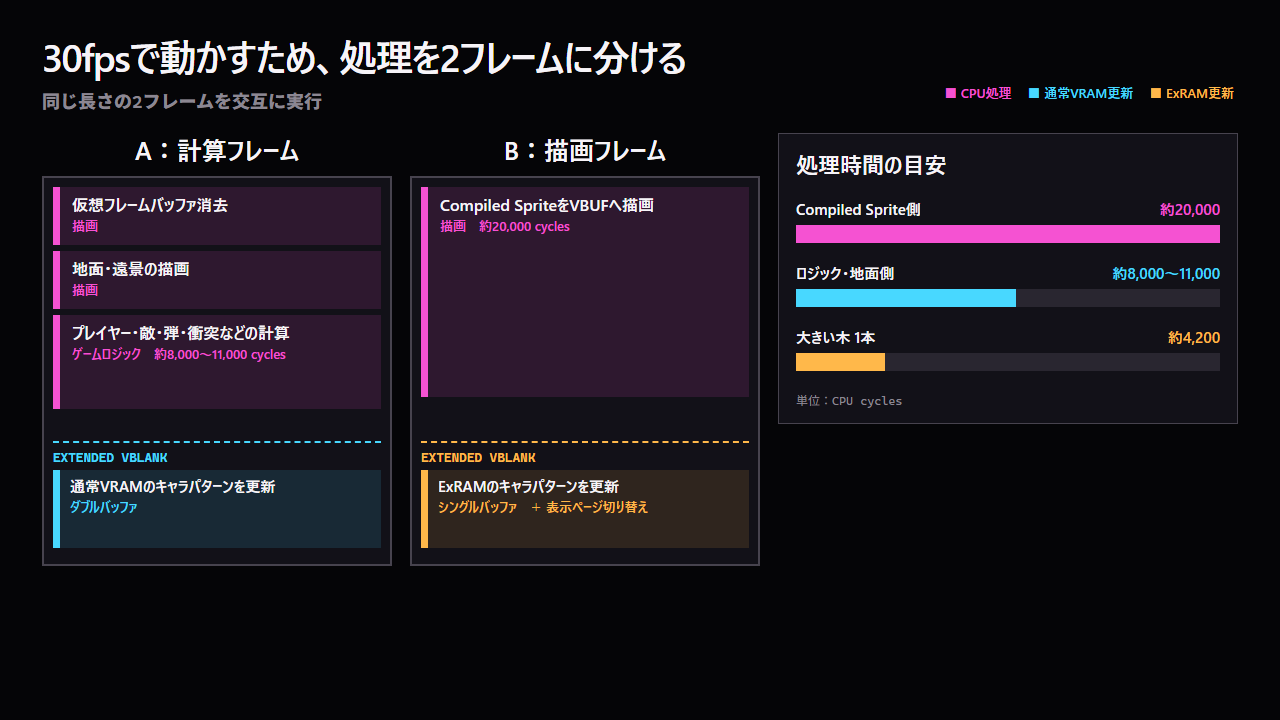
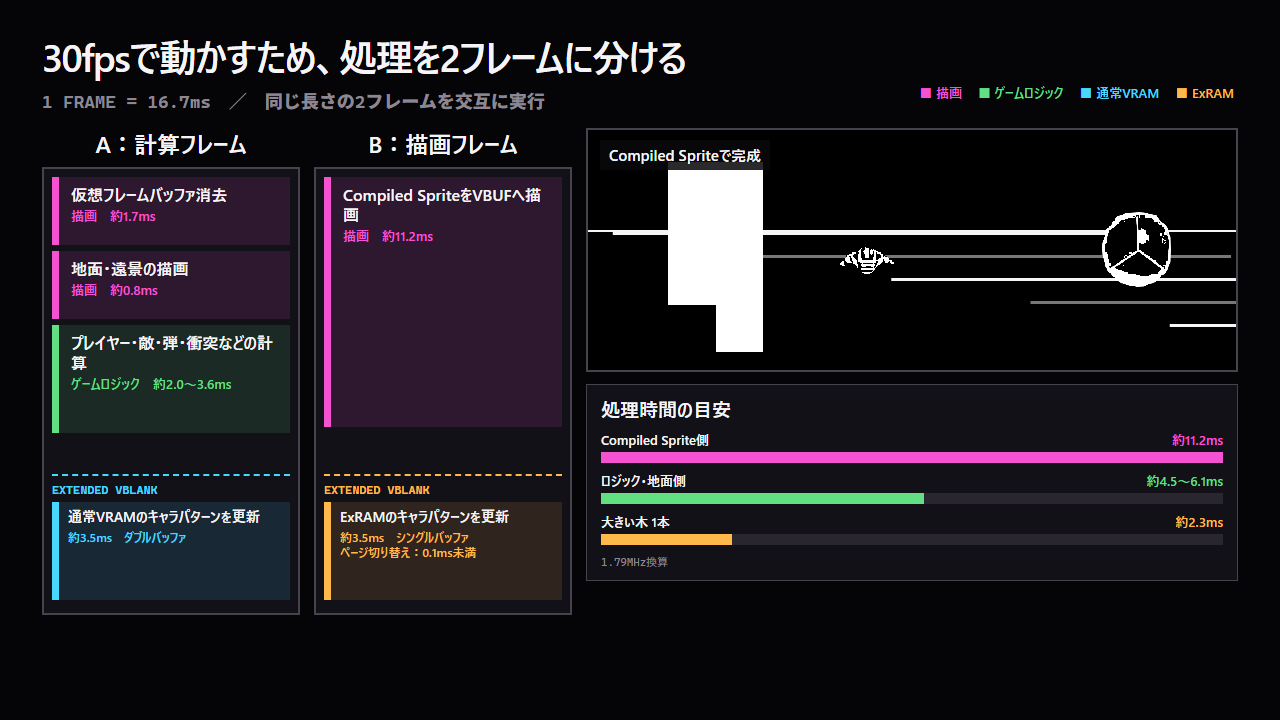
codex: 30fps処理タイムラインを再構成

diff --git a/GPT/video/explainer_prototype/src/ExplainerPrototype.tsx b/GPT/video/explainer_prototype/src/ExplainerPrototype.tsx
@@ -1193,6 +1193,7 @@ const FrameTimelineScene: React.FC = () => {
   const frame = useCurrentFrame();
   const reveal = (at: number) => interpolate(frame, [at, at + 24], [0, 1], {extrapolateLeft: 'clamp', extrapolateRight: 'clamp'});
   const cpu = C.magenta;
+  const logic = '#62df83';
   const normalVram = C.cyan;
   const exram = C.orange;
   const Block: React.FC<{label: string; sub?: string; color: string; height: number; at: number}> = ({label, sub, color, height, at}) => (
@@ -1204,25 +1205,25 @@ const FrameTimelineScene: React.FC = () => {
   const Lane: React.FC<{kind: 'A' | 'B'}> = ({kind}) => {
     const isA = kind === 'A';
     return (
-      <div style={{width: 350}}>
-        <div style={{fontFamily: FONT, color: C.white, fontSize: 25, fontWeight: 900, textAlign: 'center', marginBottom: 10}}>
+      <div style={{width: 258}}>
+        <div style={{fontFamily: FONT, color: C.white, fontSize: 23, fontWeight: 900, textAlign: 'center', marginBottom: 8}}>
           {isA ? 'A：計算フレーム' : 'B：描画フレーム'}
         </div>
-        <div style={{height: 390, border: '2px solid #47434e', padding: 9, boxSizing: 'border-box', background: C.panel, display: 'flex', flexDirection: 'column', gap: 6}}>
-          <div style={{height: 248, display: 'flex', flexDirection: 'column', gap: 6}}>
+        <div style={{height: 448, border: '2px solid #47434e', padding: 8, boxSizing: 'border-box', background: C.panel, display: 'flex', flexDirection: 'column', gap: 6}}>
+          <div style={{height: 292, display: 'flex', flexDirection: 'column', gap: 6}}>
             {isA ? <>
-              <Block label="仮想フレームバッファ消去" sub="描画" color={cpu} height={58} at={45} />
-              <Block label="地面・遠景の描画" sub="描画" color={cpu} height={58} at={87} />
-              <Block label="プレイヤー・敵・弾・衝突などの計算" sub="ゲームロジック　約8,000〜11,000 cycles" color={cpu} height={94} at={129} />
+              <Block label="仮想フレームバッファ消去" sub="描画　約1.7ms" color={cpu} height={68} at={45} />
+              <Block label="地面・遠景の描画" sub="描画　約0.8ms" color={cpu} height={68} at={87} />
+              <Block label="プレイヤー・敵・弾・衝突などの計算" sub="ゲームロジック　約2.0〜3.6ms" color={logic} height={108} at={129} />
             </> : <>
-              <Block label="Compiled SpriteをVBUFへ描画" sub="描画　約20,000 cycles" color={cpu} height={210} at={175} />
+              <Block label="Compiled SpriteをVBUFへ描画" sub="描画　約11.2ms" color={cpu} height={250} at={175} />
             </>}
           </div>
-          <div style={{height: 112, borderTop: `2px dashed ${isA ? normalVram : exram}`, paddingTop: 7, boxSizing: 'border-box', opacity: reveal(isA ? 190 : 240)}}>
-            <div style={{fontFamily: MONO, color: isA ? normalVram : exram, fontSize: 13, fontWeight: 900, marginBottom: 5}}>EXTENDED VBLANK</div>
-            <div style={{height: 78, padding: '7px 10px', boxSizing: 'border-box', background: `${isA ? normalVram : exram}20`, borderLeft: `7px solid ${isA ? normalVram : exram}`}}>
-              <div style={{fontFamily: FONT, color: C.white, fontSize: 15, lineHeight: 1.2, fontWeight: 900}}>{isA ? '通常VRAMのキャラパターンを更新' : 'ExRAMのキャラパターンを更新'}</div>
-              <div style={{fontFamily: FONT, color: isA ? normalVram : exram, fontSize: 13, fontWeight: 900, marginTop: 3}}>{isA ? 'ダブルバッファ' : 'シングルバッファ　＋ 表示ページ切り替え'}</div>
+          <div style={{height: 132, borderTop: `2px dashed ${isA ? normalVram : exram}`, paddingTop: 7, boxSizing: 'border-box', opacity: reveal(isA ? 190 : 240)}}>
+            <div style={{fontFamily: MONO, color: isA ? normalVram : exram, fontSize: 12, fontWeight: 900, marginBottom: 5}}>EXTENDED VBLANK</div>
+            <div style={{height: 98, padding: '7px 9px', boxSizing: 'border-box', background: `${isA ? normalVram : exram}20`, borderLeft: `7px solid ${isA ? normalVram : exram}`}}>
+              <div style={{fontFamily: FONT, color: C.white, fontSize: 14, lineHeight: 1.2, fontWeight: 900}}>{isA ? '通常VRAMのキャラパターンを更新' : 'ExRAMのキャラパターンを更新'}</div>
+              <div style={{fontFamily: FONT, color: isA ? normalVram : exram, fontSize: 12, lineHeight: 1.25, fontWeight: 900, marginTop: 4}}>{isA ? '約3.5ms　ダブルバッファ' : <>約3.5ms　シングルバッファ<br />ページ切り替え：0.1ms未満</>}</div>
             </div>
           </div>
         </div>
@@ -1230,32 +1231,48 @@ const FrameTimelineScene: React.FC = () => {
     );
   };
   const chartOpacity = reveal(390);
+  const previewStage = frame < 87 ? 0 : frame < 129 ? 1 : frame < 210 ? 2 : 3;
+  const stageLabels = ['消去後：真っ黒', '地面・遠景を描画', 'ゲームロジックを反映', 'Compiled Spriteで完成'];
   return (
     <AbsoluteFill style={{opacity: fade(frame, 600), backgroundColor: C.bg, padding: '34px 42px 0', boxSizing: 'border-box'}}>
       <Title size={38}>30fpsで動かすため、処理を2フレームに分ける</Title>
-      <div style={{fontFamily: MONO, color: C.dim, fontSize: 18, fontWeight: 900, marginTop: 7}}>同じ長さの2フレームを交互に実行</div>
-      <div style={{display: 'flex', gap: 18, alignItems: 'flex-start', marginTop: 20}}>
+      <div style={{fontFamily: MONO, color: C.dim, fontSize: 18, fontWeight: 900, marginTop: 7}}>1 FRAME = 16.7ms　／　同じ長さの2フレームを交互に実行</div>
+      <div style={{display: 'flex', gap: 14, alignItems: 'flex-start', marginTop: 15}}>
         <Lane kind="A" />
         <Lane kind="B" />
-        <div style={{flex: 1, opacity: chartOpacity, padding: '15px 17px', background: C.panel, border: '1px solid #47434e'}}>
-          <div style={{fontFamily: FONT, color: C.white, fontSize: 22, fontWeight: 900}}>処理時間の目安</div>
+        <div style={{flex: 1}}>
+          <div style={{height: 244, position: 'relative', overflow: 'hidden', background: '#000', border: '2px solid #47434e'}}>
+            {previewStage >= 1 ? <>
+              <div style={{position: 'absolute', left: 0, right: 0, top: 100, height: 2, background: C.white}} />
+              {[0, 1, 2, 3, 4].map((i) => <div key={i} style={{position: 'absolute', left: `${8 + i * 21}%`, top: 102 + i * 23, width: `${84 - i * 10}%`, height: 3, background: i % 2 ? '#777' : C.white, transform: 'translateX(-5%)'}} />)}
+            </> : null}
+            {previewStage >= 2 ? <Img src={staticFile('enemy_em0_00.png')} style={{position: 'absolute', left: 250, top: 115, width: 58, height: 32, objectFit: 'fill', imageRendering: 'pixelated'}} /> : null}
+            {previewStage >= 3 ? <>
+              <Img src={staticFile('tree/Tree0_15.png')} style={{position: 'absolute', left: 55, bottom: 18, width: 145, height: 190, objectFit: 'contain', imageRendering: 'pixelated'}} />
+              <Img src={staticFile('enemy_em1_00.png')} style={{position: 'absolute', right: 42, top: 82, width: 115, height: 75, objectFit: 'contain', imageRendering: 'pixelated'}} />
+            </> : null}
+            <div style={{position: 'absolute', left: 12, top: 10, padding: '5px 9px', background: '#09090ddd', fontFamily: FONT, color: C.white, fontSize: 15, fontWeight: 900}}>{stageLabels[previewStage]}</div>
+          </div>
+          <div style={{opacity: chartOpacity, marginTop: 12, padding: '11px 14px', background: C.panel, border: '1px solid #47434e'}}>
+          <div style={{fontFamily: FONT, color: C.white, fontSize: 19, fontWeight: 900}}>処理時間の目安</div>
           {[
-            {label: 'Compiled Sprite側', value: '約20,000', width: 100, color: cpu},
-            {label: 'ロジック・地面側', value: '約8,000〜11,000', width: 52, color: C.cyan},
-            {label: '大きい木 1本', value: '約4,200', width: 21, color: C.orange},
+            {label: 'Compiled Sprite側', value: '約11.2ms', width: 100, color: cpu},
+            {label: 'ロジック・地面側', value: '約4.5〜6.1ms', width: 52, color: logic},
+            {label: '大きい木 1本', value: '約2.3ms', width: 21, color: C.orange},
           ].map((bar) => (
-            <div key={bar.label} style={{marginTop: 20}}>
-              <div style={{display: 'flex', justifyContent: 'space-between', gap: 8, fontFamily: FONT, fontSize: 15, fontWeight: 900}}>
+            <div key={bar.label} style={{marginTop: 9}}>
+              <div style={{display: 'flex', justifyContent: 'space-between', gap: 8, fontFamily: FONT, fontSize: 13, fontWeight: 900}}>
                 <span style={{color: C.white}}>{bar.label}</span><span style={{color: bar.color}}>{bar.value}</span>
               </div>
-              <div style={{height: 18, background: '#292630', marginTop: 6}}><div style={{height: '100%', width: `${bar.width}%`, background: bar.color}} /></div>
+              <div style={{height: 11, background: '#292630', marginTop: 4}}><div style={{height: '100%', width: `${bar.width}%`, background: bar.color}} /></div>
             </div>
           ))}
-          <div style={{fontFamily: MONO, color: C.dim, fontSize: 12, marginTop: 20}}>単位：CPU cycles</div>
+          <div style={{fontFamily: MONO, color: C.dim, fontSize: 11, marginTop: 8}}>1.79MHz換算</div>
+          </div>
         </div>
       </div>
       <div style={{position: 'absolute', right: 46, top: 84, display: 'flex', gap: 16, fontFamily: FONT, fontSize: 13, fontWeight: 900}}>
-        <span style={{color: cpu}}>■ CPU処理</span><span style={{color: normalVram}}>■ 通常VRAM更新</span><span style={{color: exram}}>■ ExRAM更新</span>
+        <span style={{color: cpu}}>■ 描画</span><span style={{color: logic}}>■ ゲームロジック</span><span style={{color: normalVram}}>■ 通常VRAM</span><span style={{color: exram}}>■ ExRAM</span>
       </div>
     </AbsoluteFill>
   );
